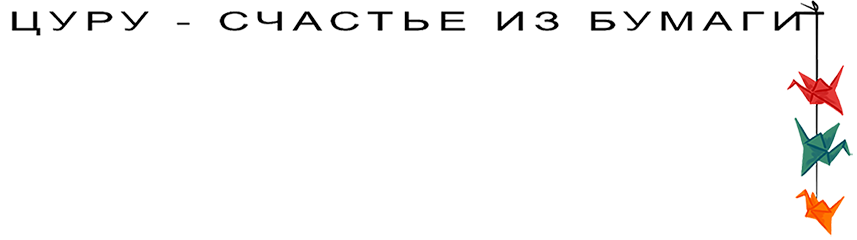
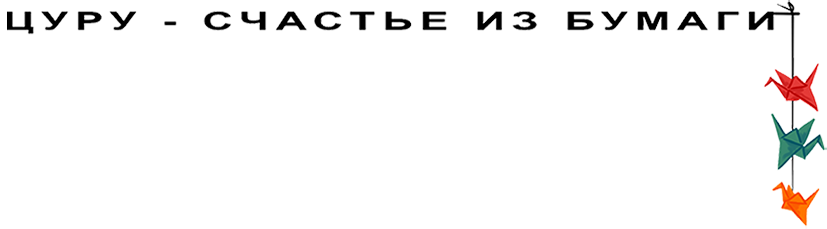
новая картинка на главной, редакция выравнивания контента везде

Changed region(s): [[0.5744, 0.0, 1.0, 0.9782], [0.0, 0.0306, 0.5441, 0.1528]]

diff --git a/app/assets/stylesheets/1_curu.sass b/app/assets/stylesheets/1_curu.sass
@@ -4,6 +4,7 @@
 +sticky-footer(63px)
 
 body
+  min-width: 1000px
   background: no-repeat image-url('curu/lines.png')
   a
     text-decoration: none
@@ -70,7 +71,7 @@ body
     margin-left: 100px
     font-size: 150%
     text-align: center
-    margin-top: 100px
+    margin-top: 110px
     overflow: hidden
 
 

diff --git a/app/assets/stylesheets/curu_main.sass b/app/assets/stylesheets/curu_main.sass
@@ -16,7 +16,7 @@ body
     background: no-repeat image-url('curu/main_title.png')
     background-position: 50% 8%
     padding:
-      top: 180px
+      top: 160px
     text-align: center
 
     #content_main

diff --git a/app/assets/stylesheets/curu_topics.sass b/app/assets/stylesheets/curu_topics.sass
@@ -1,6 +1,6 @@
 body.curu_history_topics, body.curu_magic_topics
   #content
-    text-align: left
+    text-align: center
 
     #add, #about_history_story, #about_magic_story
       font-family: Tahoma

diff --git a/app/assets/stylesheets/curu_tell_story.sass b/app/assets/stylesheets/curu_tell_story.sass
@@ -1,6 +1,6 @@
 body.curu_tell_history_story, body.curu_tell_magic_story
   #content
-    text-align: left
+    text-align: center
   #user_table
     input
       border: 1px solid

diff --git a/app/assets/stylesheets/curu_albums.sass b/app/assets/stylesheets/curu_albums.sass
@@ -1,6 +1,6 @@
 body.curu_albums
   #content
-    text-align: left
+    text-align: center
 
     #album_link, #album_link_1, #album_link_2
       color: black

diff --git a/app/assets/stylesheets/curu_differents.sass b/app/assets/stylesheets/curu_differents.sass
@@ -1,6 +1,6 @@
 body.curu_differents
   #content
-    text-align: left
+    text-align: center
 
     #add_topic, #about_differents
       font-family: Tahoma
